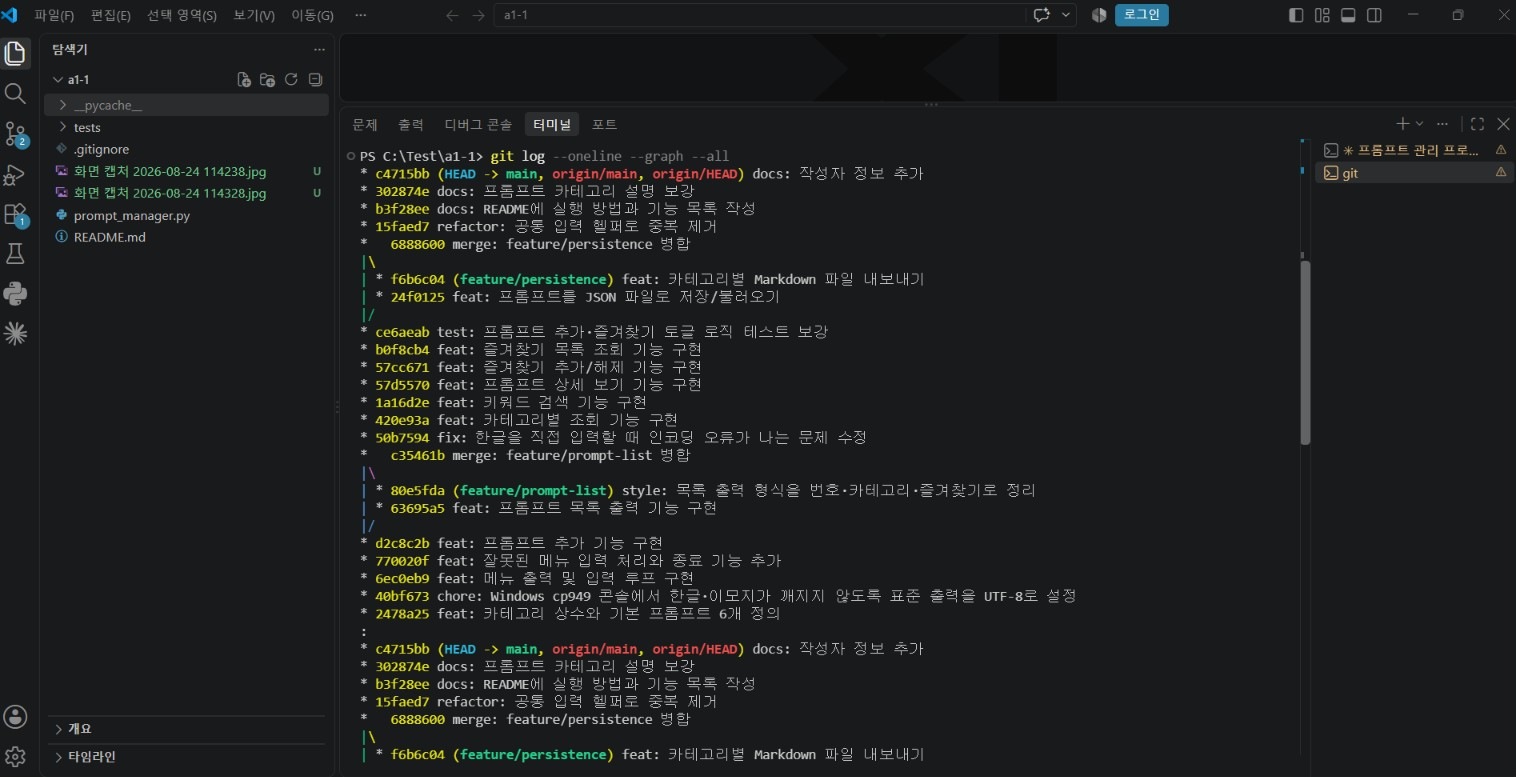
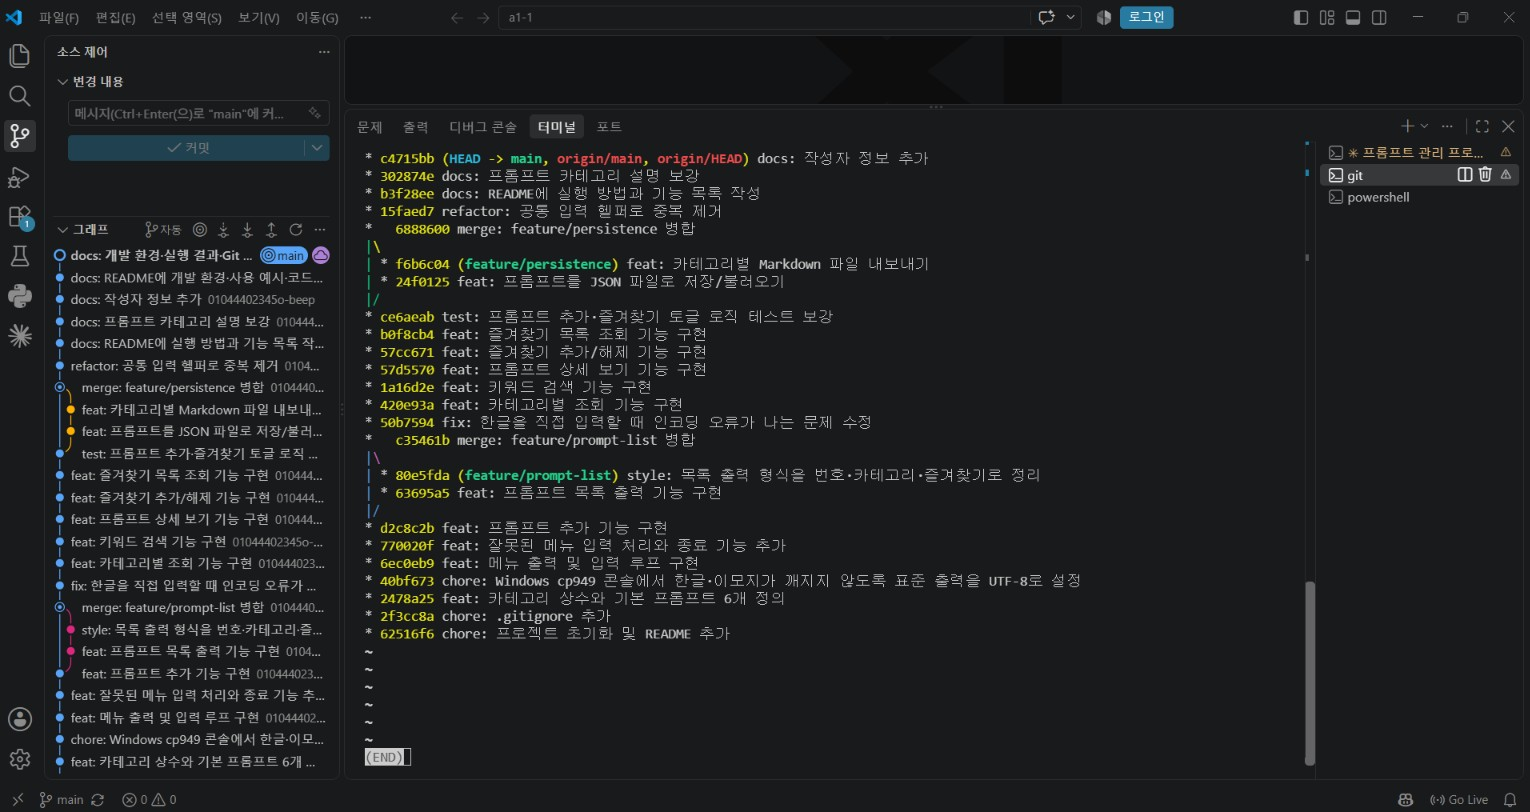
docs: Git 커밋 그래프 스크린샷을 전체 히스토리가 보이는 것으로 교체

diff --git a/README.md b/README.md
@@ -476,8 +476,11 @@ Python 3.14.4, Git 2.55.0, `user.name` / `user.email`, `init.defaultbranch=main`
 
 ### 3. Git 커밋 그래프
 
-`git log --oneline --graph --all` 출력입니다. `feature/prompt-list`와
-`feature/persistence` 두 브랜치가 `--no-ff`로 병합되어 `|\ … |/` 갈래가 남아 있습니다.
+`git log --oneline --graph` 출력입니다. 최초 커밋 `62516f6`부터 최신 커밋까지
+전체 히스토리가 담겨 있습니다. `feature/prompt-list`와 `feature/persistence` 두
+브랜치가 `--no-ff`로 병합되어 `|\ … |/` 갈래가 그대로 남아 있습니다.
+
+왼쪽 소스 제어 패널의 그래프에서도 같은 브랜치 구조를 확인할 수 있습니다.
 
 ![Git 커밋 그래프](docs/screenshots/03-git-log-graph.jpg)
 
